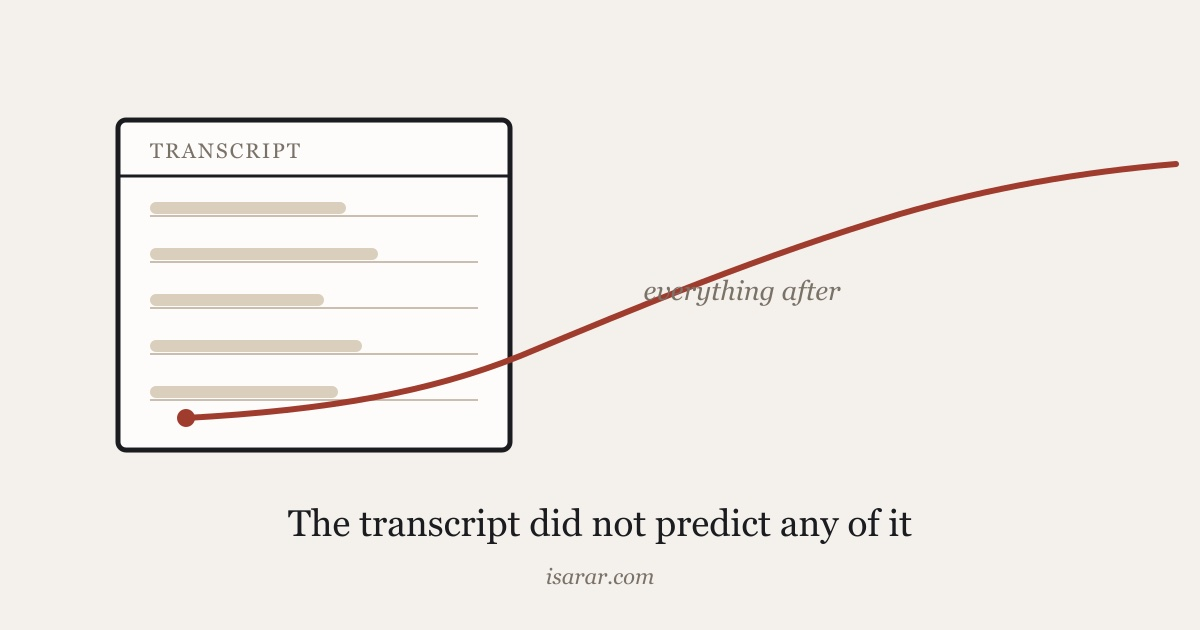
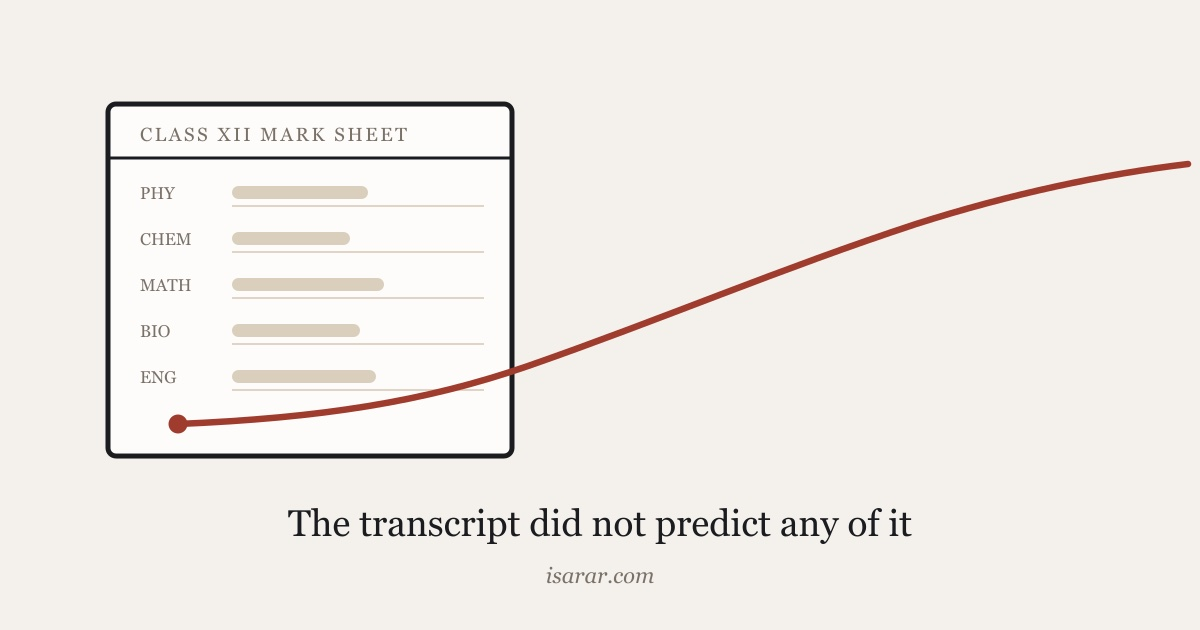
Correct Arshi profile and transcript framing

Changed region(s): [[0.0617, 0.1508, 1.0, 0.754], [0.4625, 0.9048, 0.555, 0.9349]]

diff --git a/blog/the-transcript-did-not-predict-any-of-it/index.html b/blog/the-transcript-did-not-predict-any-of-it/index.html
@@ -4,19 +4,19 @@
 <meta charset="utf-8">
 <meta name="viewport" content="width=device-width, initial-scale=1">
 <title>The transcript did not predict any of it</title>
-<meta name="description" content="She graduated with honours, and the transcript still never predicted her, it recorded her late. On the difference between a snapshot of attainment and a slope, and why only one of them transfers.">
+<meta name="description" content="Her marks at a rural CBSE school were average. They did not predict an AKTU honours graduate, a Co-Founder, or a Chief Science Officer. On snapshots, slopes, and consistency.">
 <link rel="canonical" href="https://isarar.com/blog/the-transcript-did-not-predict-any-of-it/">
 <meta name="theme-color" content="#f8f6f3" media="(prefers-color-scheme: light)">
 <meta name="theme-color" content="#0a0b0d" media="(prefers-color-scheme: dark)">
 <link rel="stylesheet" href="/style.css">
 <meta property="og:type" content="article">
 <meta property="og:title" content="The transcript did not predict any of it">
-<meta property="og:description" content="A snapshot of attainment mostly measures where someone started. The slope measures what they do with time, and it is the only part that transfers.">
+<meta property="og:description" content="Average marks at a rural CBSE school did not predict an AKTU honours degree. The transcript recorded Arshi Niyaz's trajectory late, but never predicted it.">
 <meta property="og:url" content="https://isarar.com/blog/the-transcript-did-not-predict-any-of-it/">
 <meta property="og:image" content="https://isarar.com/og-arshi.jpg">
 <meta property="og:image:width" content="1200">
 <meta property="og:image:height" content="630">
-<meta property="og:image:alt" content="A transcript sheet with a line that begins inside it and continues off the frame, labelled everything after">
+<meta property="og:image:alt" content="An illustrated Class XII mark sheet with average subject bars and a red trajectory line rising beyond the sheet beneath the title The transcript did not predict any of it">
 <meta property="og:locale" content="en_GB">
 <meta property="article:published_time" content="2026-08-31T18:00:00Z">
 <meta property="article:modified_time" content="2026-08-31T18:00:00Z">
@@ -28,7 +28,7 @@
 <meta property="article:tag" content="remote work">
 <meta name="twitter:card" content="summary_large_image">
 <meta name="twitter:image" content="https://isarar.com/og-arshi.jpg">
-<meta name="twitter:image:alt" content="A transcript sheet with a line that begins inside it and continues off the frame, labelled everything after">
+<meta name="twitter:image:alt" content="An illustrated Class XII mark sheet with average subject bars and a red trajectory line rising beyond the sheet beneath the title The transcript did not predict any of it">
 <meta name="author" content="Isarar Siddique">
 <meta name="keywords" content="hiring, research practice, team, consistency">
 <link rel="alternate" type="application/rss+xml" title="Isarar Siddique" href="/feed.xml">
@@ -43,7 +43,7 @@ if(t==="dark"||t==="light")document.documentElement.setAttribute("data-theme",t)
   "@type": "BlogPosting",
   "@id": "https://isarar.com/blog/the-transcript-did-not-predict-any-of-it/#post",
   "headline": "The transcript did not predict any of it",
-  "description": "She graduated with honours, and the transcript still never predicted her, it recorded her late. On the difference between a snapshot of attainment and a slope, and why only one of them transfers.",
+  "description": "Her marks at a rural CBSE school were average. They did not predict an AKTU honours graduate, a Co-Founder, or a Chief Science Officer. On snapshots, slopes, and consistency.",
   "datePublished": "2026-08-31T18:00:00Z",
   "dateModified": "2026-08-31T18:00:00Z",
   "url": "https://isarar.com/blog/the-transcript-did-not-predict-any-of-it/",
@@ -70,7 +70,7 @@ if(t==="dark"||t==="light")document.documentElement.setAttribute("data-theme",t)
   "mentions": {
     "@type": "Person",
     "name": "Arshi Niyaz",
-    "jobTitle": "Chief Science Officer, Biotech Wallah",
+    "jobTitle": "Co-Founder and Chief Science Officer, Biotech Wallah",
     "sameAs": ["https://www.linkedin.com/in/arshi-niyaz-67ab71274/"]
   },
   "speakable": {
@@ -115,22 +115,23 @@ if(t==="dark"||t==="light")document.documentElement.setAttribute("data-theme",t)
   <h1>The transcript did not predict any of it</h1>
   <p class="by"><time datetime="2026-08-31">31 August 2026</time> &nbsp;·&nbsp; 8 min read</p>
   <figure class="cover">
-    <img src="/og-arshi.jpg" alt="A transcript sheet with a line that begins inside it and continues off the frame, labelled everything after"
+    <img src="/og-arshi.jpg" alt="An illustrated Class XII mark sheet with average subject bars and a red trajectory line rising beyond the sheet beneath the title The transcript did not predict any of it"
          width="1200" height="630" loading="eager" decoding="async">
     <figcaption>The sheet is bounded. Almost nothing that matters afterwards happens inside it.</figcaption>
   </figure>
   <p>
     <a href="https://www.linkedin.com/in/arshi-niyaz-67ab71274/" rel="noopener">Arshi
-    Niyaz</a> is Chief Science Officer at Biotech Wallah, and she was there before there
-    was a company to be an officer of.
+    Niyaz</a> is Co-Founder and Chief Science Officer at Biotech Wallah. She was there
+    before there was a company to be an officer of, which is why the first title matters
+    more than the second.
   </p>
 
   <figure class="mug">
     <figcaption>
       <b>Arshi Niyaz</b>
-      Chief Science Officer, Biotech Wallah. Co-started the company. Biotechnology with
-      honours, AKTU. Summer trainee at Stanford, remote. A year junior to me at the same
-      college in the same department.
+      Co-Founder and Chief Science Officer, Biotech Wallah. Biotechnology with honours,
+      AKTU. Summer trainee at Stanford, remote. A year junior to me at the same college in
+      the same department.
       <a href="https://www.linkedin.com/in/arshi-niyaz-67ab71274/" rel="noopener">linkedin.com/in/arshi-niyaz</a>
     </figcaption>
   </figure>
@@ -143,22 +144,28 @@ if(t==="dark"||t==="light")document.documentElement.setAttribute("data-theme",t)
     failed for the fourth week running.
   </p>
 
-  <h2>The mark sheet was a lagging indicator</h2>
+  <h2>The mark sheet was a lagging indicator, twice</h2>
   <p>
     I should be precise here, because the obvious reading of my title is wrong.
   </p>
   <p>
-    Arshi graduated with honours. She is on the AKTU honours list, and she earned that the
-    slow way, semester after semester, without a single term where she coasted. So the
-    final transcript does reflect her. My claim is narrower and I think more useful: it
-    never once predicted her. It recorded what was already happening, and it recorded it
-    late.
+    Start at school. Her marks at a rural CBSE school were average. A Class XII mark
+    sheet could describe that moment, but it could not predict what followed. Her father
+    supported her education throughout. His support belongs in this account because the
+    barriers around her were never a simple story of her family standing in her way.
   </p>
   <p>
-    Nobody looking at an early mark sheet would have picked her out. I certainly would not
-    have, and I was in the room. The honours came at the end of a long compounding process
-    that was invisible in any single semester's numbers, and by the time the sheet showed
-    it, everyone who had worked with her already knew.
+    Then college. Arshi graduated with honours. She is on the AKTU honours list, and she
+    earned it the slow way, semester after semester, without a single term where she
+    coasted. So the final transcript does reflect her. My claim is narrower and I think
+    more useful: it never once predicted her. It recorded what was already happening, and
+    it recorded it late.
+  </p>
+  <p>
+    That is the same instrument failing twice in a row. The school sheet did not predict
+    the honours degree. The early college marks did not predict that she would later become
+    a Co-Founder and Chief Science Officer. Two independent measurements, taken years
+    apart, both described a position and told you nothing about a direction.
   </p>
   <p>
     So the useful distinction is not grades against no grades. It is the snapshot against
@@ -170,6 +177,12 @@ if(t==="dark"||t==="light")document.documentElement.setAttribute("data-theme",t)
     further back, an early mark sheet is largely a measurement of the starting gap rather
     than of the person. The slope measures what they do with time, which is the thing you
     actually wanted to know and the only thing that transfers.
+  </p>
+  <p>
+    For girls who look at an ordinary school record and read it as a ceiling, Arshi's
+    trajectory is a concrete counterexample. Average school marks were followed by an AKTU
+    honours degree through consistent work. The lesson is not that marks are meaningless.
+    It is that a current mark is not a final limit.
   </p>
   <p>
     That distinction matters even more once the work stops being coursework. A transcript
@@ -197,18 +210,18 @@ if(t==="dark"||t==="light")document.documentElement.setAttribute("data-theme",t)
     from.
   </p>
   <p>
-    She is from a village. She is a Muslim woman. In India both of those facts add friction
-    to a girl's education that has nothing whatsoever to do with her ability, and she has
-    spent years pushing against that friction in order to keep studying. She was the
-    eldest, and the first girl in her family to study in the city. Her younger sister and
-    brother walked a path she had to cut first.
+    She is from a village. She is a Muslim woman. In India those facts can add social
+    and geographic friction to a girl's education that has nothing to do with ability.
+    Her father's support was consistent, so this is not a story of family opposition.
+    She was the eldest, and the first girl in her family to study in the city. Her younger
+    sister and brother then had a path she had helped make possible.
   </p>
   <p>
-    None of that is written here as inspiration. It is written as a causal account.
+    None of that is here to decorate the story. It is part of the causal account.
   </p>
   <p>
-    Someone who had to argue for the right to be in a classroom does not treat a place in
-    one as ambient. That shows up in the work in a way I can point at. It is the reason
+    Someone who has had to work around that friction does not treat a place in a classroom
+    as ambient. That shows up in the work in a way I can point at. It is the reason
     participant two hundred in our screening trial gets the same instructions, in the same
     order, with the same refusal to accept a bad capture, as participant three. It is the
     reason the audiometry still gets taken at the end of a long afternoon, when the queue

diff --git a/blog/index.html b/blog/index.html
@@ -81,7 +81,7 @@ if(t==="dark"||t==="light")document.documentElement.setAttribute("data-theme",t)
             <span class="when"><time datetime="2026-08-31">31 Aug 2026</time></span>
             <span>
               <span class="ft">The transcript did not predict any of it</span>
-              <p class="fx">Arshi Niyaz graduated with honours from AKTU and the transcript still never predicted her, it recorded what was already happening and recorded it late. On the snapshot against the slope, and on remote work as the entire opportunity set rather than a convenience, including a Stanford summer traineeship done without leaving India. She co-started Biotech Wallah and is its Chief Science Officer.</p>
+              <p class="fx">Arshi Niyaz had average marks at a rural CBSE school, with her father&#x27;s consistent support. That school transcript did not predict the AKTU honours degree that followed. On snapshots, slopes, remote research access, and a Stanford summer traineeship completed from India. She is Co-Founder and Chief Science Officer at Biotech Wallah.</p>
               <span class="read">8 min read</span>
             </span>
           </a>
